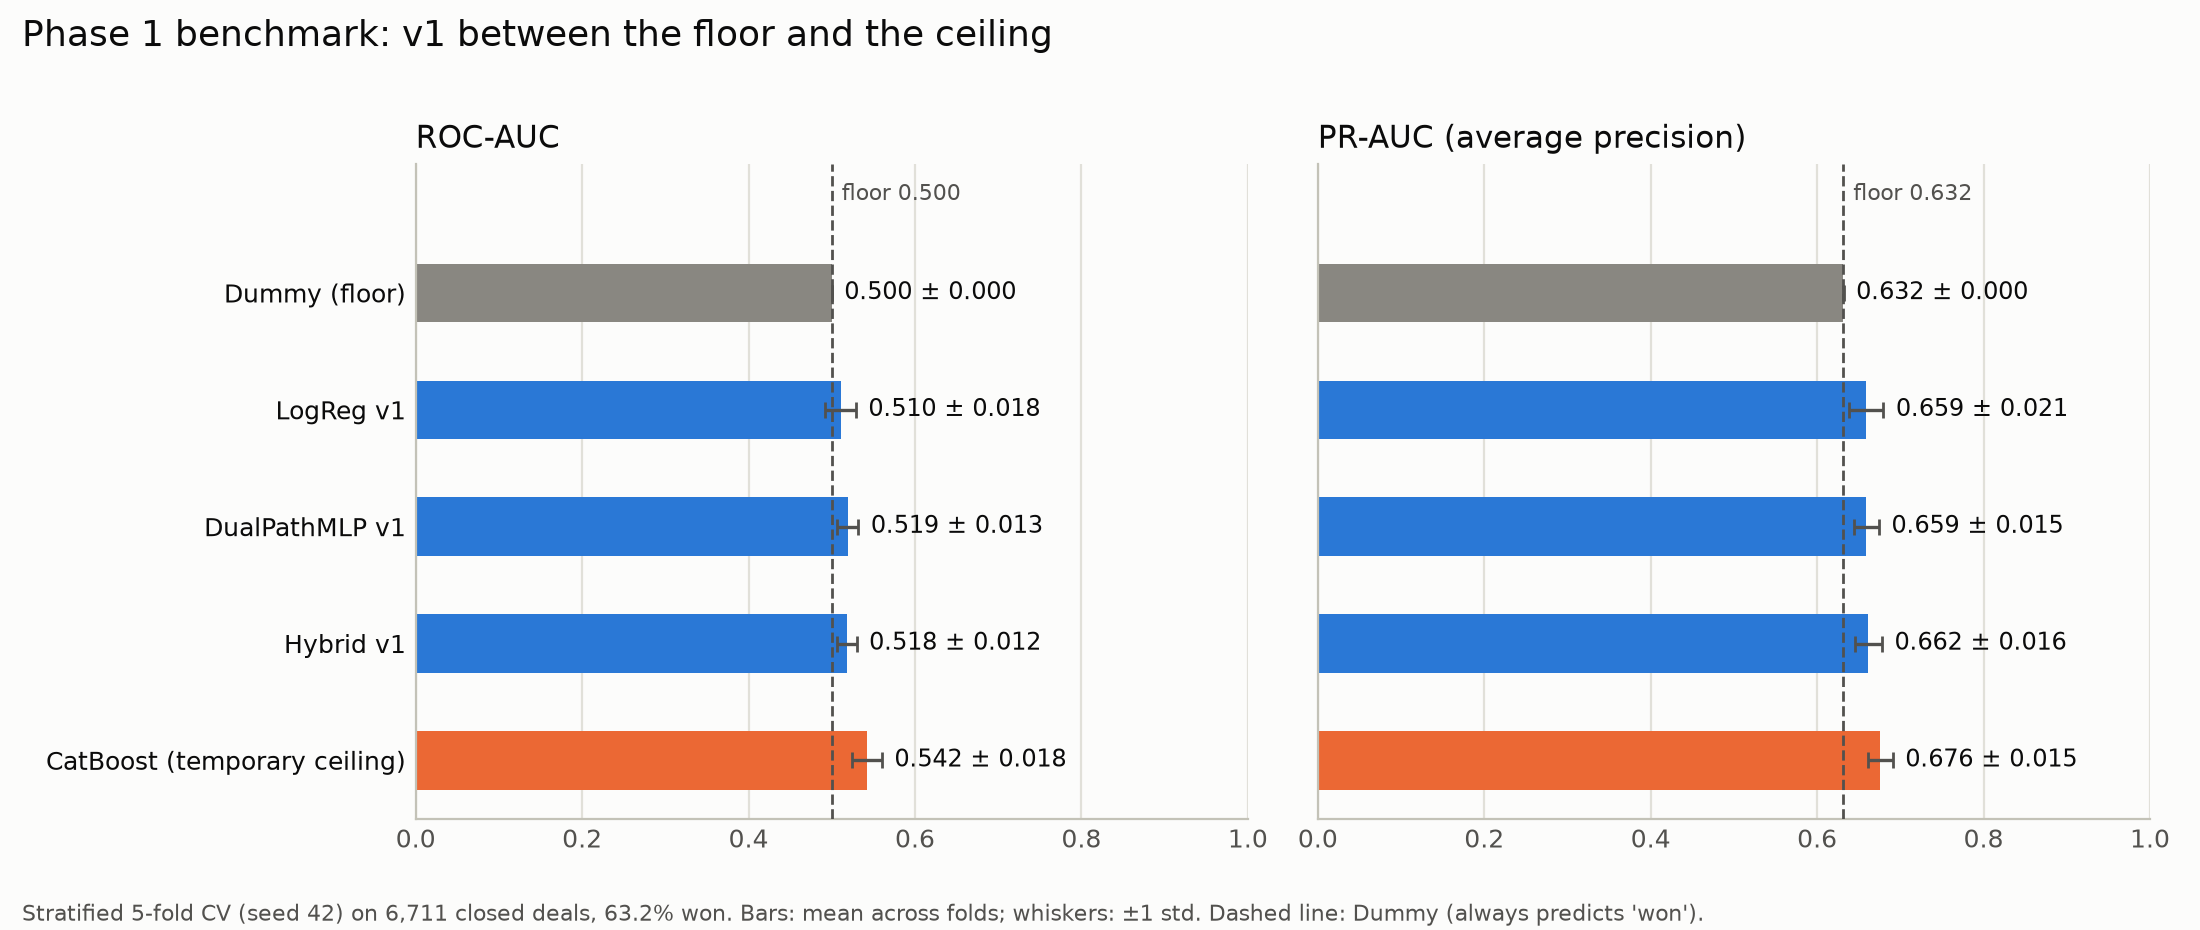
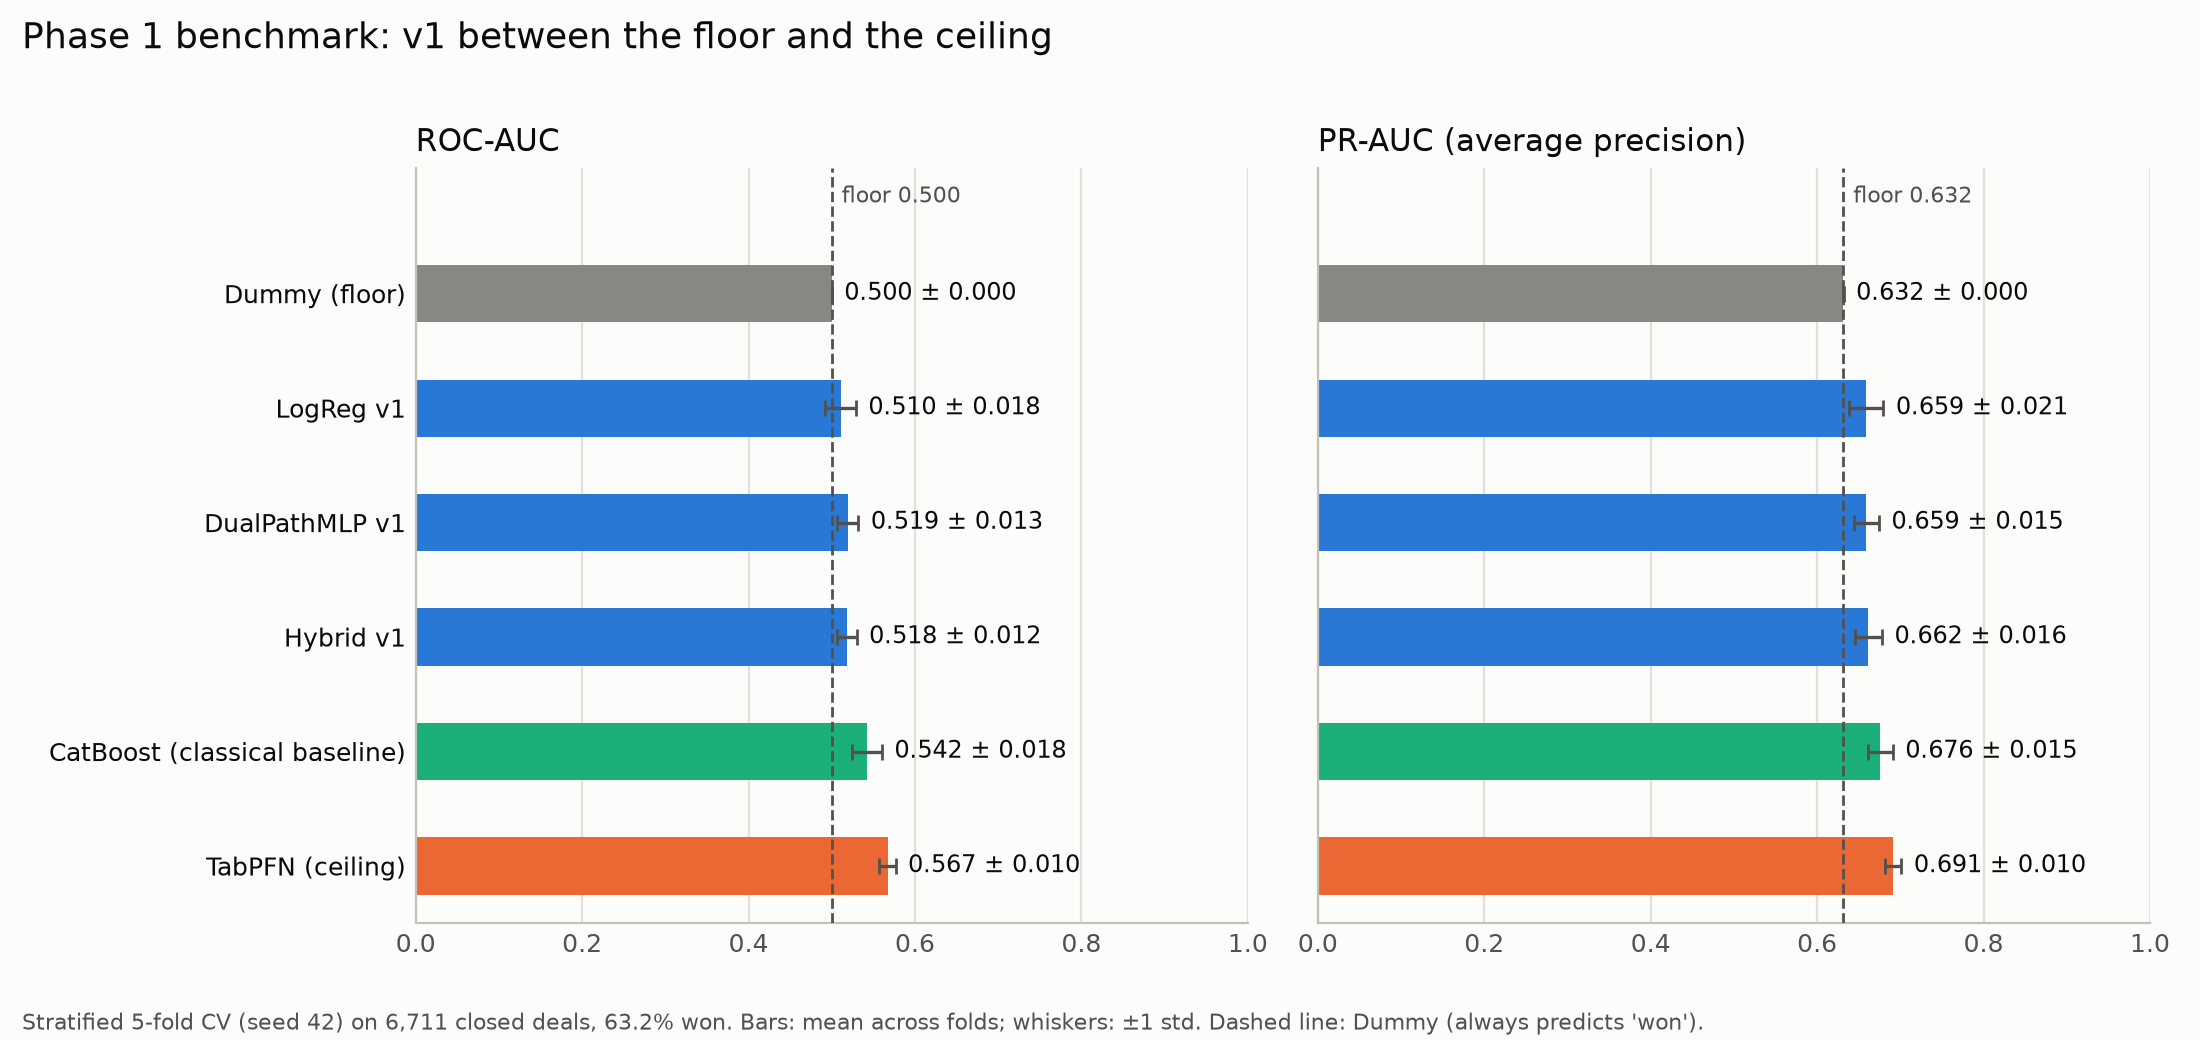
results: add TabPFN-3.5 ceiling to the Phase 1 benchmark
TabPFN (default settings, CPU, seed 42): ROC-AUC 0.567 ± 0.010,
PR-AUC 0.691 ± 0.010, Brier 0.229 ± 0.001. Beats every v1 model in all
5 folds and the constant-63.2% Brier reference (0.233) in every fold.

Reuses results/benchmark_v1_folds.csv unchanged; the other five models'
per-fold numbers are bit-identical to the previous commit. Two full runs
(~10.5 min each, ~2 min per TabPFN fold) produced byte-identical files.

README: TabPFN row, CatBoost as classical baseline, constant-forecast
reference row, TabPFN access and certificate setup steps.

diff --git a/Readme.md b/Readme.md
@@ -27,7 +27,9 @@ How the benchmark is run:
 | LogReg v1 | 0.510 ± 0.018 | 0.659 ± 0.021 | 0.518 ± 0.026 | 0.640 ± 0.015 | 0.436 ± 0.030 | 0.489 ± 0.018 | 0.250 ± 0.003 | 43% |
 | DualPathMLP v1 | 0.519 ± 0.013 | 0.659 ± 0.015 | 0.749 ± 0.012 | 0.629 ± 0.004 | 0.927 ± 0.032 | 0.608 ± 0.012 | 0.237 ± 0.002 | 93% |
 | Hybrid v1 | 0.518 ± 0.012 | 0.662 ± 0.016 | 0.735 ± 0.017 | 0.630 ± 0.002 | 0.881 ± 0.045 | 0.599 ± 0.015 | 0.238 ± 0.002 | 88% |
-| CatBoost (temporary ceiling) | 0.542 ± 0.018 | 0.676 ± 0.015 | 0.772 ± 0.001 | 0.632 ± 0.001 | 0.994 ± 0.002 | 0.630 ± 0.001 | 0.232 ± 0.002 | 99% |
+| CatBoost (classical baseline) | 0.542 ± 0.018 | 0.676 ± 0.015 | 0.772 ± 0.001 | 0.632 ± 0.001 | 0.994 ± 0.002 | 0.630 ± 0.001 | 0.232 ± 0.002 | 99% |
+| TabPFN (ceiling) | 0.567 ± 0.010 | 0.691 ± 0.010 | 0.774 ± 0.000 | 0.632 ± 0.000 | 1.000 ± 0.000 | 0.632 ± 0.000 | 0.229 ± 0.001 | 100% |
+| *Constant 63.2% forecast (Brier reference)* | 0.500 | 0.632 | — | — | — | — | 0.233 | — |
 
 How to read the table:
 - Each cell is the mean ± std over the 5 folds.
@@ -38,18 +40,16 @@ How to read the table:
 
 - **At the floor.** v1 scores ROC-AUC 0.510–0.519, against 0.500 for the Dummy. The MLP and the Hybrid beat 0.5 in all 5 folds, but only by 0.008–0.038. LogReg falls below 0.5 in 2 of the 5 folds.
 - **Its F1 comes from predicting "won".** The Dummy has the best F1 at threshold 0.5. The MLP and the Hybrid predict "won" for 93% and 88% of deals. Tuning the Hybrid's threshold for F1 makes it predict "won" for almost everyone. v1's probabilities are also less accurate than a constant 63.2% forecast (Brier 0.237–0.250 vs 0.233).
-- **The ceiling is low as well.** CatBoost with default settings reaches only 0.542 ROC-AUC. It beats the MLP and the Hybrid in all 5 folds, and LogReg in 4 of 5, but only by a small margin. The 14 v1 features carry little signal, so the next step is better features, not a bigger model.
+- **The ceiling is low as well.** TabPFN-3.5 with default settings reaches only 0.567 ROC-AUC. It beats every v1 model in all 5 folds, by about 0.05, and CatBoost (0.542) sits between the two. TabPFN is the only model whose probabilities beat the constant 63.2% forecast in every fold (Brier 0.229 vs 0.233), yet it still predicts "won" for every deal at threshold 0.5. Even the strongest available model finds little signal in the 14 v1 features, so the next step is better features, not a bigger model.
 
-> **Ceiling note.** The planned ceiling is TabPFN with default settings. Its 3.5 weights are in a gated Hugging Face repo, and this machine isn't logged in for it yet. Until then, CatBoost with default settings is the ceiling, labelled "temporary ceiling". To add TabPFN:
-> 1. Accept the terms at <https://huggingface.co/Prior-Labs/tabpfn_3_5>.
-> 2. Run `hf auth login` (or set `HF_TOKEN`).
-> 3. Rerun the benchmark without `--ceiling`. It reuses the same saved folds.
+> **Ceiling and baseline.** The ceiling is TabPFN-3.5 (`tabpfn` 9.2.0) with default settings; only the seed and the CPU device are pinned. It takes about 2 minutes per fold on an M2 CPU. CatBoost with default settings is kept as a strong classical baseline. To set up TabPFN access, see [Setup](#setup).
 
-**Run it** (about 30 s on an M2 CPU with CatBoost):
+**Run it:**
 
 ```bash
-python -m src.benchmark --out results/benchmark_v1.csv --ceiling catboost
-python -m src.benchmark --check-v1   # checks the benchmark reproduces v1's original numbers exactly
+python -m src.benchmark --out results/benchmark_v1.csv     # all models, ~11 min on an M2 CPU
+python -m src.benchmark --out results/quick.csv --models dummy,logreg,mlp,hybrid,catboost   # no TabPFN, ~30 s
+python -m src.benchmark --check-v1                         # checks the benchmark reproduces v1's original numbers exactly
 ```
 
 Outputs in `results/`:
@@ -76,11 +76,20 @@ source .venv/bin/activate
 python -m pip install -r requirements.txt
 ```
 
-**3. Run.**
+**3. Set up TabPFN access (one time).** TabPFN-3.5's weights (876 MB) are gated:
+
+1. While logged in to Hugging Face, accept the terms at <https://huggingface.co/Prior-Labs/tabpfn_3_5>.
+2. Create a Read token (Hugging Face → Settings → Access Tokens) and run `.venv/bin/hf auth login`.
+3. Accept the licence at <https://ux.priorlabs.ai> (License tab) and save your API key as `~/.cache/tabpfn/auth_token`, or set `TABPFN_TOKEN`. Otherwise the first run opens a browser login.
+4. **python.org Python on macOS only:** install Python's root certificates (run "Install Certificates.command", or link `certifi`'s `cacert.pem` to `…/Python.framework/Versions/3.12/etc/openssl/cert.pem`). Without them, TabPFN's licence check fails with a misleading "gated repo" error.
+
+To skip TabPFN, leave it out of `--models`.
+
+**4. Run.**
 
 ```bash
 python -m src.process_data                     # data/raw -> data/processed/processed_sales_data.csv
-python -m src.benchmark --ceiling catboost     # Phase 1 benchmark (~30 s)
+python -m src.benchmark                        # Phase 1 benchmark (~11 min with TabPFN)
 python main.py                                 # v1 single-split pipeline (~5 s); rewrites the v1 files in results/
 ```
 

diff --git a/PHASE1_PLAN.md b/PHASE1_PLAN.md
@@ -2,7 +2,7 @@
 
 Status: **approved and executed** on branch `phase1-benchmark`. The results are in the README's "Benchmark (Phase 1)" section. Deviations from this plan:
 - **Environment:** Option B was chosen (tabpfn 9.2.0), and v1 reproduced exactly on it.
-- **Ceiling:** TabPFN-3.5 weights are in a gated Hugging Face repo that isn't authorised on this machine, so CatBoost is the labelled temporary ceiling.
+- **Ceiling:** TabPFN-3.5 was added once access was set up (gated Hugging Face weights, a Prior Labs licence token, and root certificates for python.org Python). Until then, CatBoost stood in as a temporary ceiling; it is now kept as a classical baseline.
 - **Requirements:** `Requirements.txt` was renamed to `requirements.txt` with exact pins, instead of adding a separate `requirements-benchmark.txt`.
 
 The rest of this document is the original plan, unchanged.
